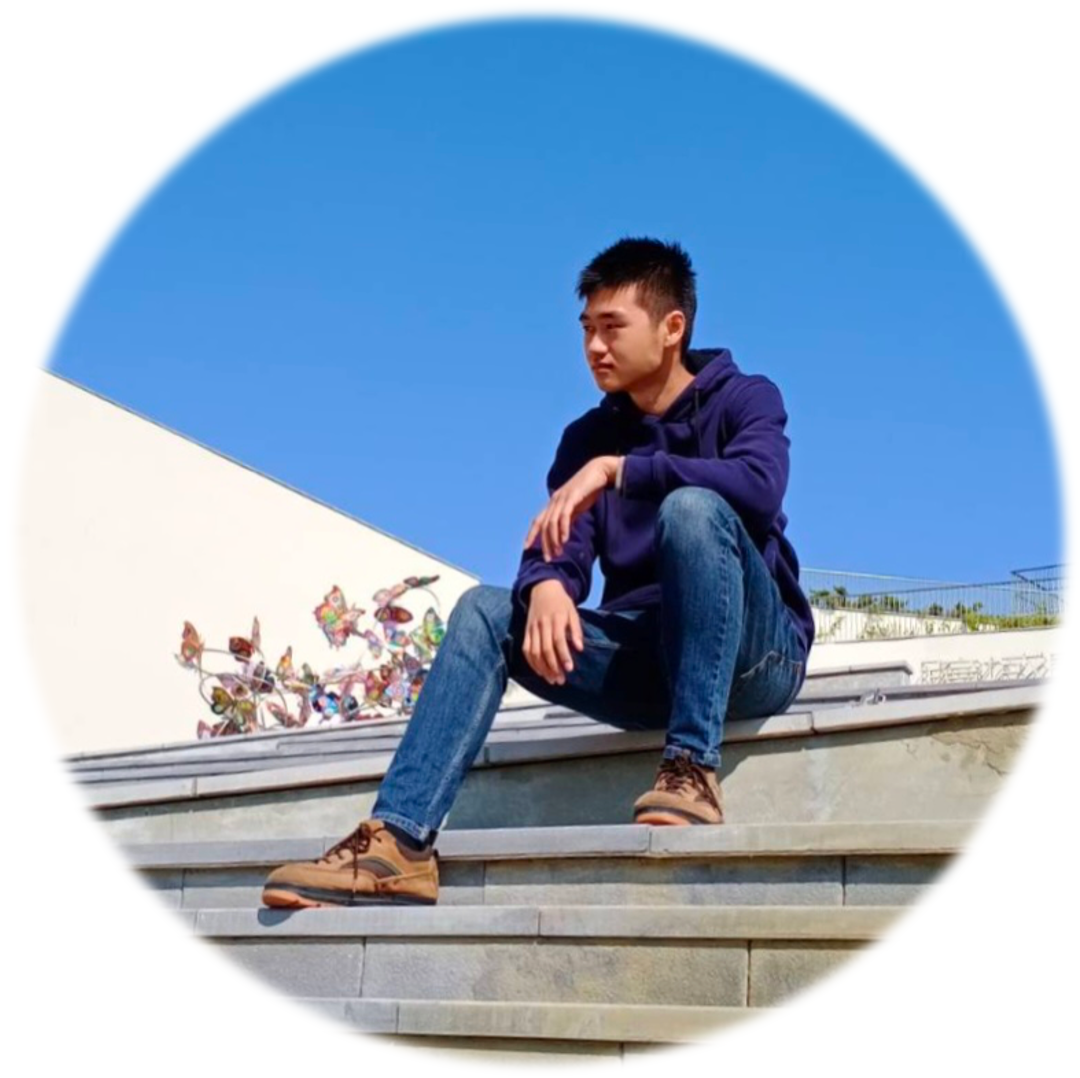
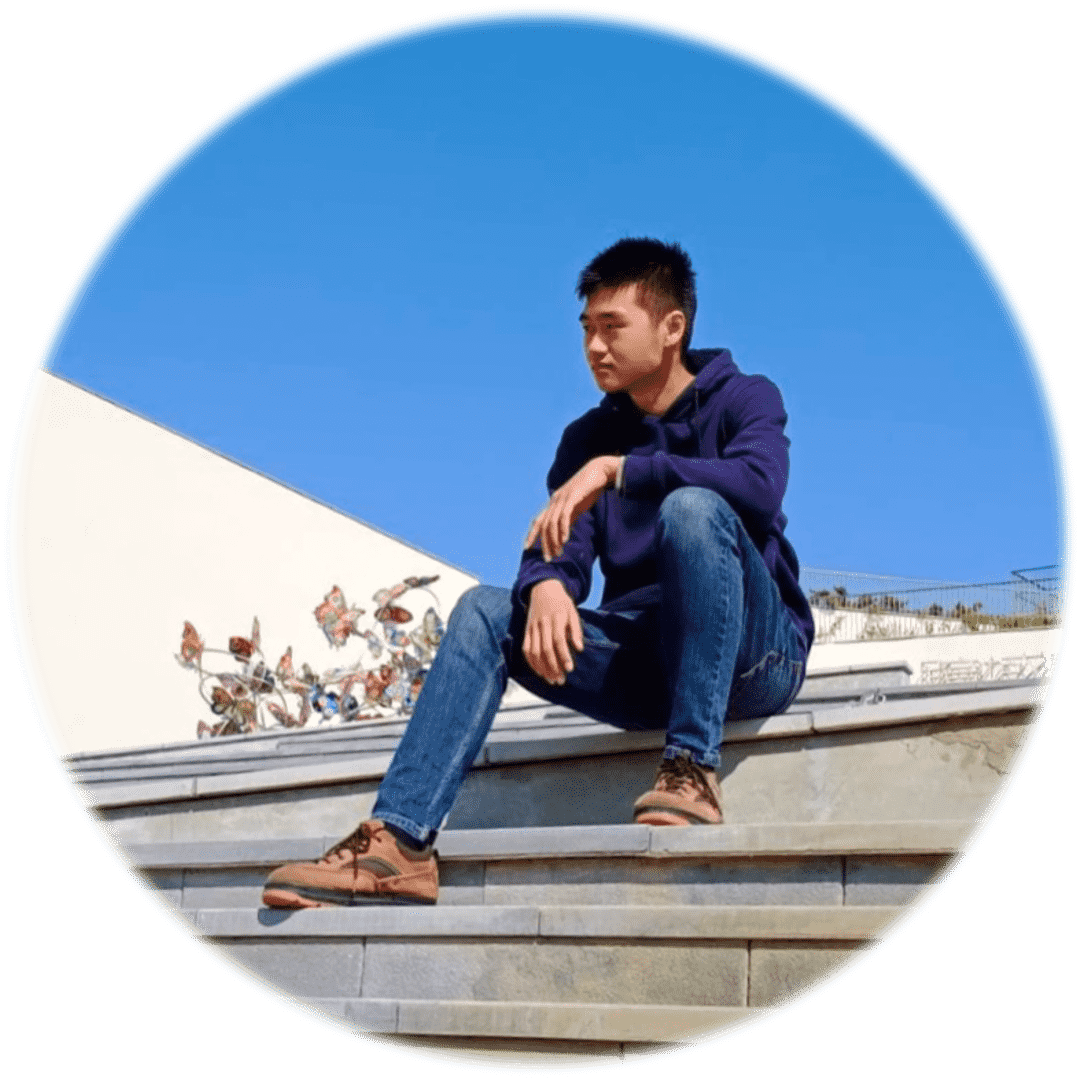
compress contributors photos

diff --git a/client/src/out/Forget.css b/client/src/out/Forget.css
@@ -13,13 +13,14 @@ html {
 
 #Forget_input_text{
     margin:0;
+    /* color: white; */
     /* text-align: center; */
     /* font-size: 1.5rem; */
 }
 #Forget_input_input{
     color: white;
     background-color: #003F67;
-    font-size: 1.5rem;
+    font-size: 1.5rem; 
     border-width: 0 0 4px 0;
     -o-border-image: linear-gradient(to right, rgb(106, 255, 198) 0%, rgb(48, 232, 255) 100%);
        border-image: -webkit-gradient(linear, left top, right top, from(rgb(106, 255, 198)), to(rgb(48, 232, 255)));
@@ -69,47 +70,64 @@ html {
 } */
 @media screen and (min-width: 300px){
     #Forget_input_text{
-        font-size: 0.98rem;
-        color: white;
+        font-size: 0.55rem;
+        color: red;
     }
-    /* #Forget_input_input{
-        font-size: 0.98rem;
-        color: white;
-    }     */
+    #Forget_input_input{
+        font-size: 0.45rem;
+    } 
 }
 @media screen and (min-width: 350px){
     #Forget_input_text{
-        font-size: 1.1rem;
-        color: white;
+        font-size: 0.8rem;
+        color: orange;
     }
+    #Forget_input_input{
+        font-size: 0.7rem;
+    } 
 }
 @media screen and (min-width: 400px){
     #Forget_input_text{
-        font-size: 1.2rem;
-        color: white;
+        font-size: 0.9rem;
+        color: yellow;
+    }
+    #Forget_input_input{
+        font-size: 0.8rem;
     }
 }
 @media screen and (min-width: 600px){
     #Forget_input_text{
         font-size: 1.5rem;
-        color: white;
+        color: lightgreen;
+    }
+    #Forget_input_input{
+        font-size: 1.4rem;
     }
 }
 @media screen and (min-width: 767px){
     #Forget_input_text{
         font-size: 1.5rem;
-        color: white;
+        color: lightblue;
+    }
+    #Forget_input_input{
+        font-size: 1.4rem;
     }
 }
 @media screen and (min-width: 1023px){
     #Forget_input_text{
+        font-size: 1.7rem;
+        color: pink;
+    }
+    #Forget_input_input{
         font-size: 1.6rem;
-        color: white;
     }
 }
 @media screen and (min-width: 1500px){
     #Forget_input_text{
+        font-size: 1.8rem;
+        color: purple;
+    }
+    #Forget_input_input{
         font-size: 1.7rem;
-        color: white;
     }
 }

diff --git a/client/src/out/Forget.js b/client/src/out/Forget.js
@@ -74,7 +74,7 @@ class Forget extends Component{
 								placeholder="Student ID"
 								value={this.state.value} 
 								onChange={this.handleInputChange}
-								className="form-control col-7 col-lg-8 offset-1"
+								className="form-control col-5 col-lg-8 offset-1"
 							></input>
 						</div>
 						<div id="Forget_input" className="form-group row">
@@ -84,7 +84,7 @@ class Forget extends Component{
 								placeholder="Your Email"
 								value={this.state.value} 
 								onChange={this.handleInputChange}
-								className="form-control col-7 col-lg-8 offset-1 "
+								className="form-control col-5 col-lg-8 offset-1 "
 							></input>
 						</div>
 						<div id="Forget_input" className="form-group row">
@@ -105,7 +105,7 @@ class Forget extends Component{
 								placeholder="登入後須設定新密碼"
 								value={this.state.value} 
 								onChange={this.handleInputChange}
-								className="form-control col-7 col-lg-8 offset-1"
+								className="form-control col-5 col-lg-8 offset-1"
 							></input>
 						</div>
 						<div id="Forget_input" className="form-group row">
@@ -116,7 +116,7 @@ class Forget extends Component{
 								placeholder="再次輸入密碼"
 								value={this.state.value} 
 								onChange={this.handleInputChange}
-								className="form-control col-7 col-lg-8 offset-1"
+								className="form-control col-5 col-lg-8 offset-1"
 							></input>
 						</div>
 						<div id="Forget_btn" className="justify-content-center d-flex mt-4">
